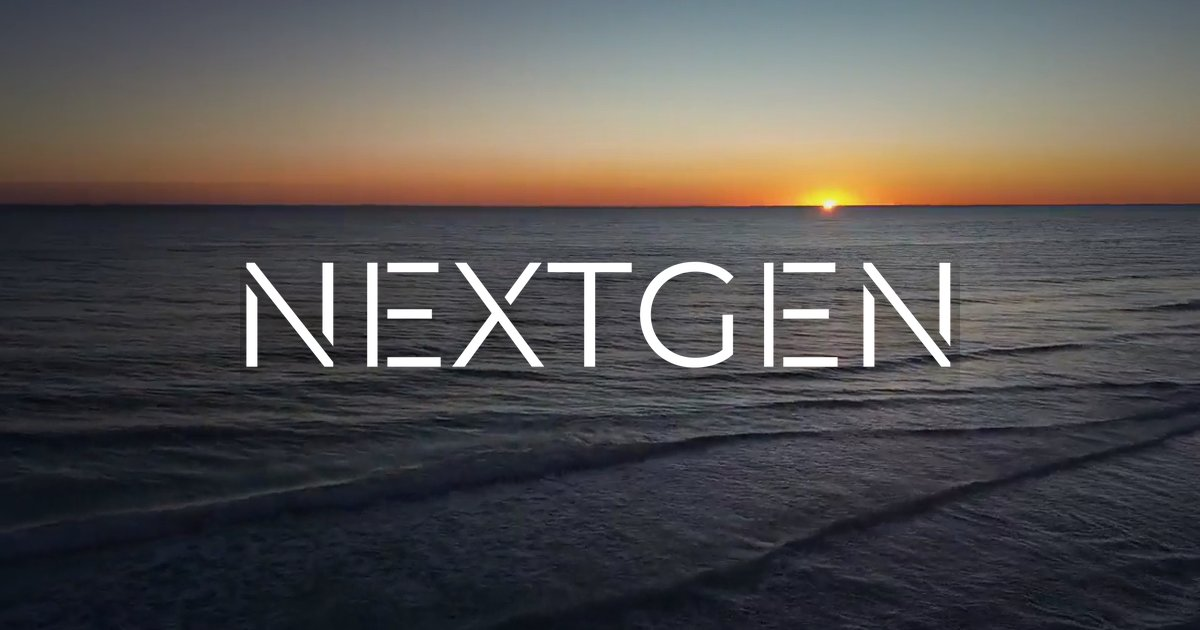
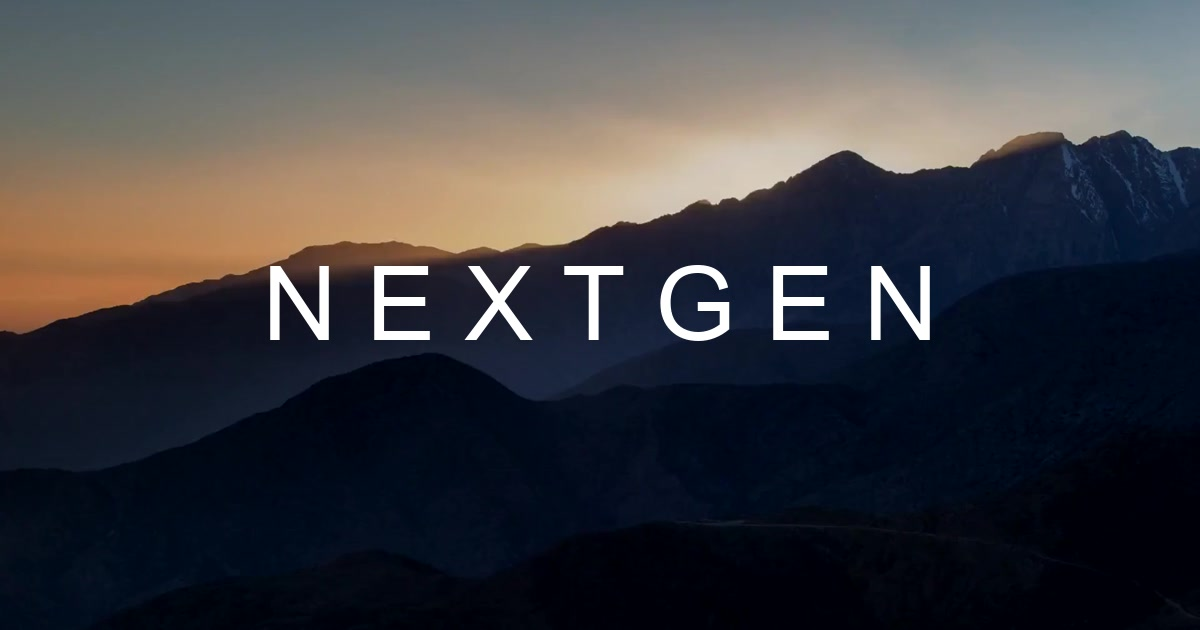
OG preview: NEXTGEN wordmark on hero frame + new description
- Generated /assets/og-image.jpg (1200x630): hero-scrub frame at
  t≈2s with the NEXTGEN wordmark drawn over it, matching the link-
  preview screenshot.
- Page metadata (title was already correct, description updated to
  the long-form Mittelstand copy from the screenshot). Twitter card
  description aligned with OpenGraph.
- Trimmed another 2s off the start of the reversed hero-scrub.mp4
  so the sun rises earlier in the scroll.
- Removed the screenshot reference image from public assets.

diff --git a/nextgen-react/app/layout.tsx b/nextgen-react/app/layout.tsx
@@ -22,24 +22,25 @@ const outfit = Outfit({
   variable: "--font-outfit",
 });
 
+const SITE_DESCRIPTION =
+  "Wir erwerben Mehrheitsbeteiligungen an gesunden Unternehmen in Business Services und entwickeln sie gemeinsam mit dem bestehenden Team weiter — mit eigenem Kapital, langfristigem Horizont und einem Team, das kauft, führt und umsetzt.";
+
 export const metadata: Metadata = {
   metadataBase: new URL(SITE),
   title: "NextGen Equity Partners – Wachstumspartner für den Mittelstand.",
-  description:
-    "NextGen Equity – Partner für Unternehmer in Business Services. Wachstumskapital, operative Erfahrung und KI-Kompetenz.",
+  description: SITE_DESCRIPTION,
   openGraph: {
     type: "website",
     siteName: "NextGen Equity Partners",
     title: "NextGen Equity Partners – Wachstumspartner für den Mittelstand.",
-    description:
-      "Mehrheitsbeteiligungen an gesunden Unternehmen in Business Services. Mit eigenem Kapital und langfristigem Horizont.",
+    description: SITE_DESCRIPTION,
     images: [{ url: "/assets/og-image.jpg", width: 1200, height: 630 }],
     locale: "de_DE",
   },
   twitter: {
     card: "summary_large_image",
-    title: "NextGen Equity Partners",
-    description: "Mehrheitsbeteiligungen im Mittelstand.",
+    title: "NextGen Equity Partners – Wachstumspartner für den Mittelstand.",
+    description: SITE_DESCRIPTION,
     images: ["/assets/og-image.jpg"],
   },
   icons: { icon: "/assets/favicon.svg" },